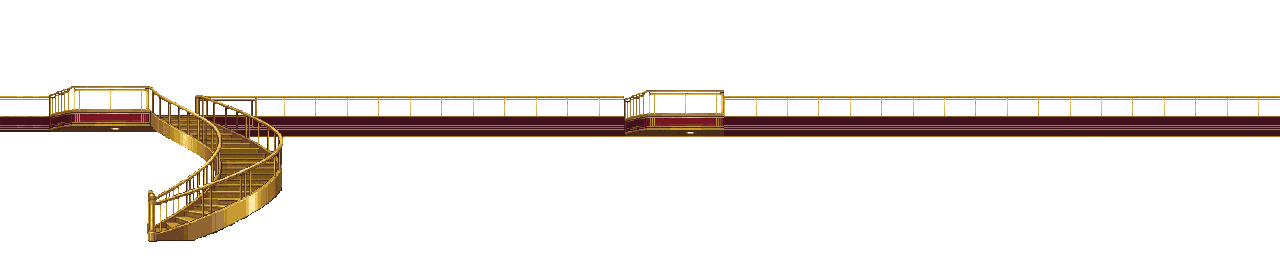
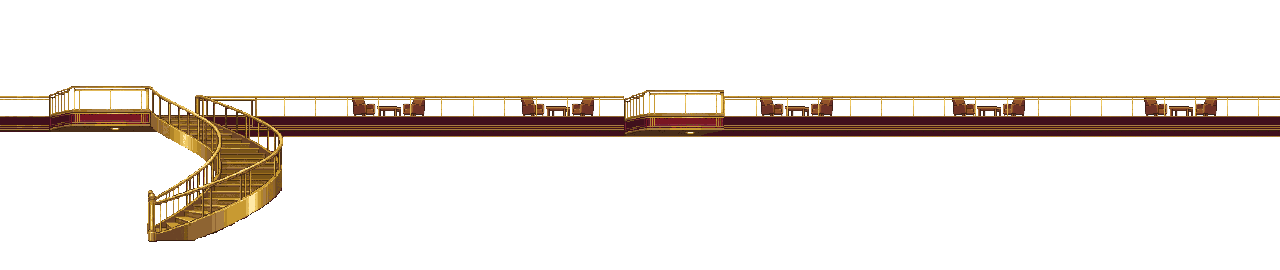
Land Bell Desk p1 and p2: the parallax stack is complete
Five layers tracking their own factors, verified at three points across
the level. Computed wrap exposure once: only p4's edges ever meet on
screen (factor x 1440 + 480 vs image width), so only p4 needed a seam
fix. Composite guard re-run against the finished field and passes.

diff --git a/DECISIONS.md b/DECISIONS.md
@@ -4742,3 +4742,41 @@ sweeping 0.30-1.00 while the panel sat at 0.30/0.48/2200; belldesk
 pinned false and sweeping 0.30-0.48; the panel driven hard to
 0.05/0.12/900 moved BELLDESK to 0.05-0.12; and the coatroom, revisited
 under that same panel state, still swept 0.30-1.00. No console noise.
+
+## 2026-08-25 — Bell Desk parallax stack COMPLETE (p1 + p2 landed)
+
+p1 arrived (1600×270, indexed) and p2 was reworked (1280×270, now RGBA).
+The level now runs a full five-layer field for the first time: p4 0.05 /
+p3 0.2 / glow 0.2 / p2 0.45 / p1 0.7, at depths -9 / -8 / -7.5 / -7 /
+-6, each tracking its own factor exactly — measured at three points
+across the level (scrollX 20 / 700 / 1440 giving p1 offsets 14 / 490 /
+1008, and every other layer in proportion).
+
+WRAP EXPOSURE, computed once so it never has to be guessed again. The
+level scrolls 1440px, so each layer's visible window reaches
+factor×1440 + 480 into its own image:
+
+  p1   1008 + 480 = 1488 of 1600  — never wraps on screen
+  p2    648 + 480 = 1128 of 1280  — never wraps
+  p3    288 + 480 =  768 of  960  — never wraps
+  glow  288 + 480 =  768 of  960  — never wraps
+  p4     72 + 480 =  552 of  480  — WRAPS
+
+So P4 was the only layer whose left and right edges ever meet on screen,
+which is why its seam mattered and why nothing needs checking on the
+others. Any future layer is seamless iff factor×1440 + 480 ≤ its width.
+
+COMPOSITE GUARD re-run against the finished field — the last unmeasured
+state of the level. Against the wall (luma 45): luggage tiers 117 / 53 /
+96 clear, crimson coat control 55 clear, Chexy 160 clear. Alert Red is
+again the PALETTE figure (127, an 82 gap) rather than a composited
+sample: the staged off-screen enemy produced no edge arrow for the third
+time, and the right-edge scan picked up p1 dressing instead. The
+"AlertRed vs coat 6 luma" line in the raw output is that bad sample, not
+a finding.
+
+Format drift noted, not blocking: the stack is now mixed — p1 and p3
+indexed, p2, p4 and glow RGBA.
+
+Remaining Bell Desk art: the wall sconce (sheet cell 24), which §3
+lists as deferrable. That is the whole level.
